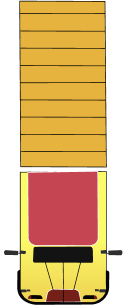
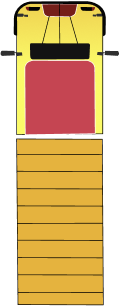
changes

diff --git a/src/utils/location.tsx b/src/utils/location.tsx
@@ -24,10 +24,10 @@ const returnLocation = () => {
 
 const getLocation = async (setLocation: (arg0: GeolocationResponse) => void, setLocationRegion: (arg0: GeolocationResponse) => void, locationRegion: { (): undefined; (value: SetStateAction<boolean>): void; coords?: any; } | undefined, setModalVisible: (arg0: any) => void) => {
     Geolocation.getCurrentPosition(
-        async (pos) => {
+        async (pos: GeolocationResponse) => {
             setLocation(pos);
 
-            if(!locationRegion?.coords?.latitude) {
+            if (!locationRegion?.coords?.latitude) {
                 setLocationRegion(pos);
             }
 
@@ -35,27 +35,22 @@ const getLocation = async (setLocation: (arg0: GeolocationResponse) => void, set
 
             const latitude = pos?.coords?.latitude;
             const longitude = pos?.coords?.longitude;
+            const heading = pos?.coords?.heading;
 
             const compareDistance = await compareLocation({ latitude, longitude }, savedLocation);
 
             if (compareDistance) {
                 setLocationRegion(pos);
-                loadStorage().then(
-                    token => {
-                        const dataPayload = {
-                            latitude: latitude,
-                            longitude: longitude,
-                            token: token?.token || '',
-                        };
 
-                        console.log(dataPayload, 'dataPayload1');
+                const dataPayload = {
+                    latitude: latitude,
+                    longitude: longitude,
+                    heading: heading
+                };
 
-                        saveLocation(dataPayload);
-                    },
-                    err => {
-                        console.error(err, 'token error'); // Error!
-                    },
-                );
+                console.log(dataPayload, 'dataPayload1');
+
+                saveLocation(dataPayload);
             }
         },
         (error) => {
@@ -77,6 +72,7 @@ const watchPosition = (setLocation: (arg0: GeolocationResponse) => void, setLoca
 
                 const latitude = position?.coords?.latitude;
                 const longitude = position?.coords?.longitude;
+                const heading = position?.coords?.heading;
 
                 const savedLocation = await loadStorage('savedLocation');
 
@@ -84,22 +80,16 @@ const watchPosition = (setLocation: (arg0: GeolocationResponse) => void, setLoca
 
                 if (compareDistance) {
                     setLocationRegion(position);
-                    loadStorage().then(
-                        token => {
-                            const dataPayload = {
-                                latitude: latitude,
-                                longitude: longitude,
-                                token: token?.token || '',
-                            };
 
-                            console.log(dataPayload, 'dataPayload2');
+                    const dataPayload = {
+                        latitude: latitude,
+                        longitude: longitude,
+                        heading
+                    };
 
-                            saveLocation(dataPayload);
-                        },
-                        err => {
-                            console.error(err, 'token error'); // Error!
-                        },
-                    );
+                    console.log(dataPayload, 'dataPayload2');
+
+                    saveLocation(dataPayload);
                 }
             },
             (error) => {

diff --git a/src/screens/main/HomeScreen.tsx b/src/screens/main/HomeScreen.tsx
@@ -221,7 +221,7 @@ function HomeScreen({ navigation }: { navigation: any }): React.JSX.Element {
             // customMapStyle={mapStyle}
             >
               <Marker
-                rotation={180}
+                rotation={location?.coords?.heading || 0}
                 // image={{ uri: require('../../assets/images/truck.png') }}
                 coordinate={{
                   latitude: location?.coords?.latitude || 0,
@@ -238,7 +238,7 @@ function HomeScreen({ navigation }: { navigation: any }): React.JSX.Element {
               {markers &&
                 markers.map((marker: any, index: number) => (
                   <Marker
-                    rotation={180}
+                    rotation={+marker.heading || 0}
                     key={index}
                     coordinate={{
                       latitude: +marker.lat || 0,

diff --git a/src/components/ValidationTextInput.tsx b/src/components/ValidationTextInput.tsx
@@ -103,7 +103,7 @@ const styles = StyleSheet.create({
     placeholder: {
         position: 'absolute',
         left: HP(65),
-        zIndex: 1,
+        // zIndex: 1,
         backgroundColor: 'transparent',
         textAlign: "center"
     },
